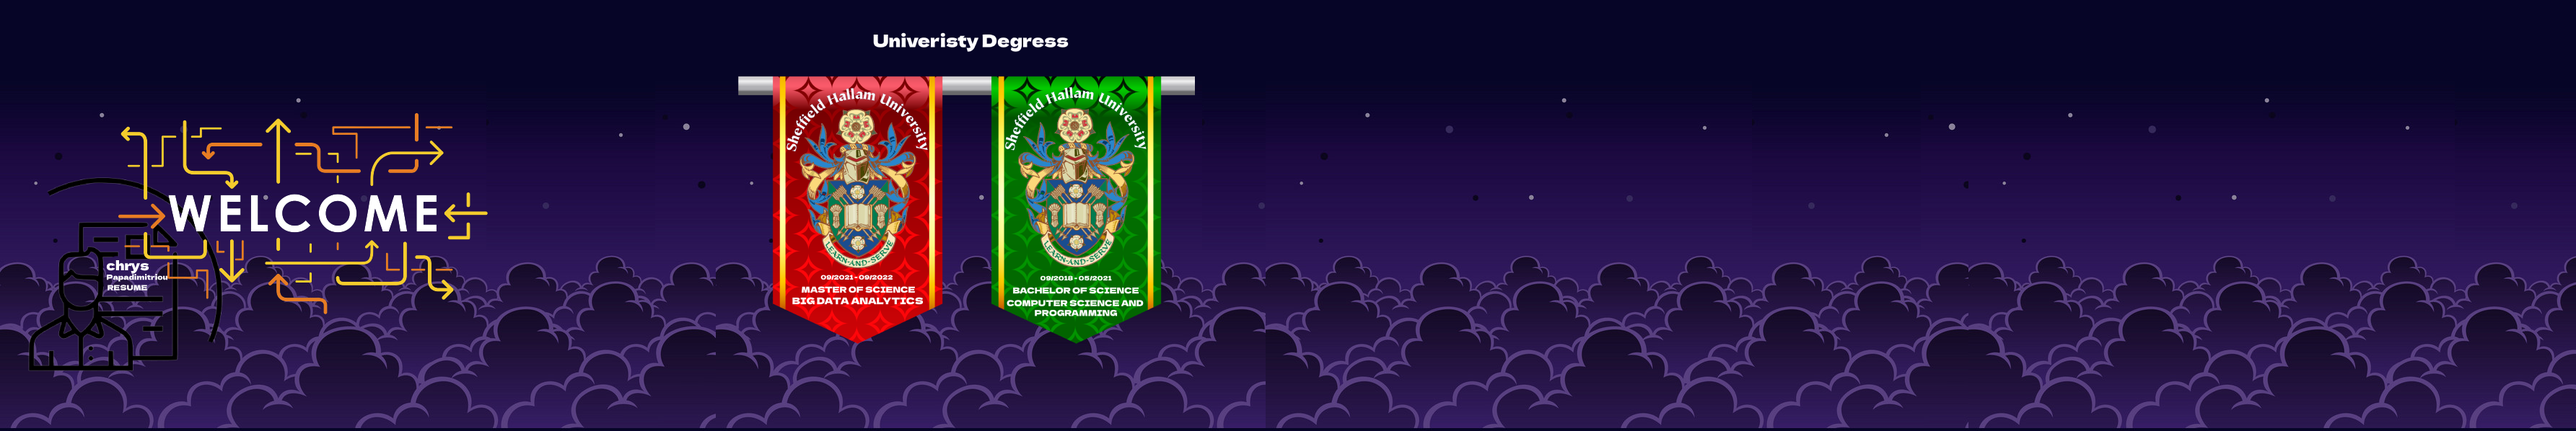
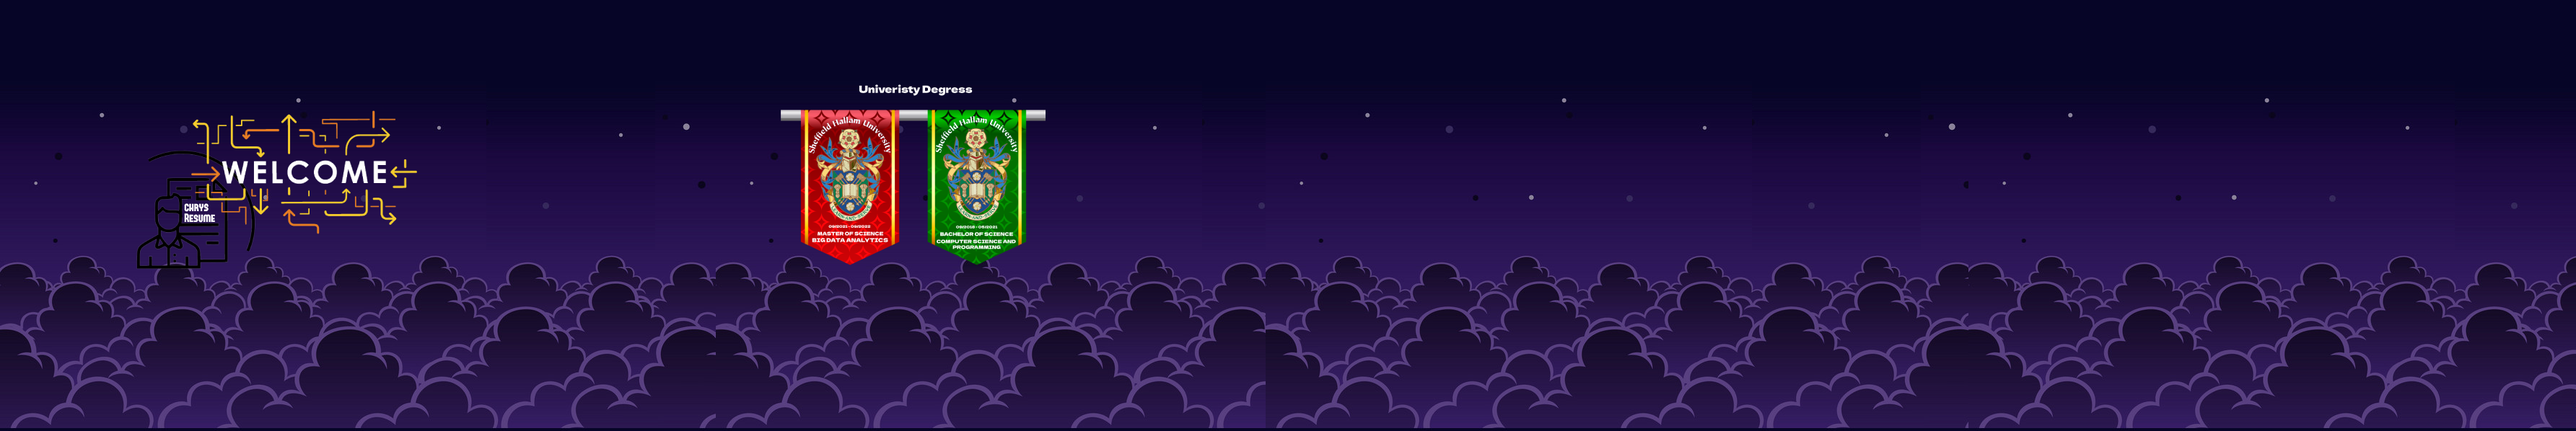
v1

Changed region(s): [[0.2798, 0.1505, 0.4664, 0.7826], [0.0, 0.2709, 0.1866, 0.8729], [0.342, 0.0602, 0.4353, 0.1204]]

diff --git a/js/sceneMain.js b/js/sceneMain.js
@@ -10,8 +10,8 @@ class SceneMain extends Phaser.Scene {
         this.load.atlas("LeftHold","assets/LeftHold.png","assets/LeftHold.json");
         this.load.atlas("RightHold","assets/RightHold.png","assets/RightHold.json");
         this.load.image("Right","assets/Right.png");
-     /*   this.load.image("Welcome","assets/Welcome.png");
         this.load.image("Left","assets/Left.png");
+     /*   this.load.image("Welcome","assets/Welcome.png");
         this.load.image("UniLogo","assets/UniLogo.png");
         this.load.image("UniLogoMsc","assets/UniLogoMsc.png");
         this.load.image("Flag","assets/flag.png");
@@ -23,7 +23,7 @@ class SceneMain extends Phaser.Scene {
         //add backgrounds 
         let bg = this.add.image(0,0,"background");
         bg.displayHeight = this.sys.game.config.height;
-        bg.displayWidth = this.sys.game.config.width*6;
+        bg.displayWidth = this.sys.game.config.width*4;
         bg.y= game.config.height/2;
         bg.x= game.config.width*3;
 
